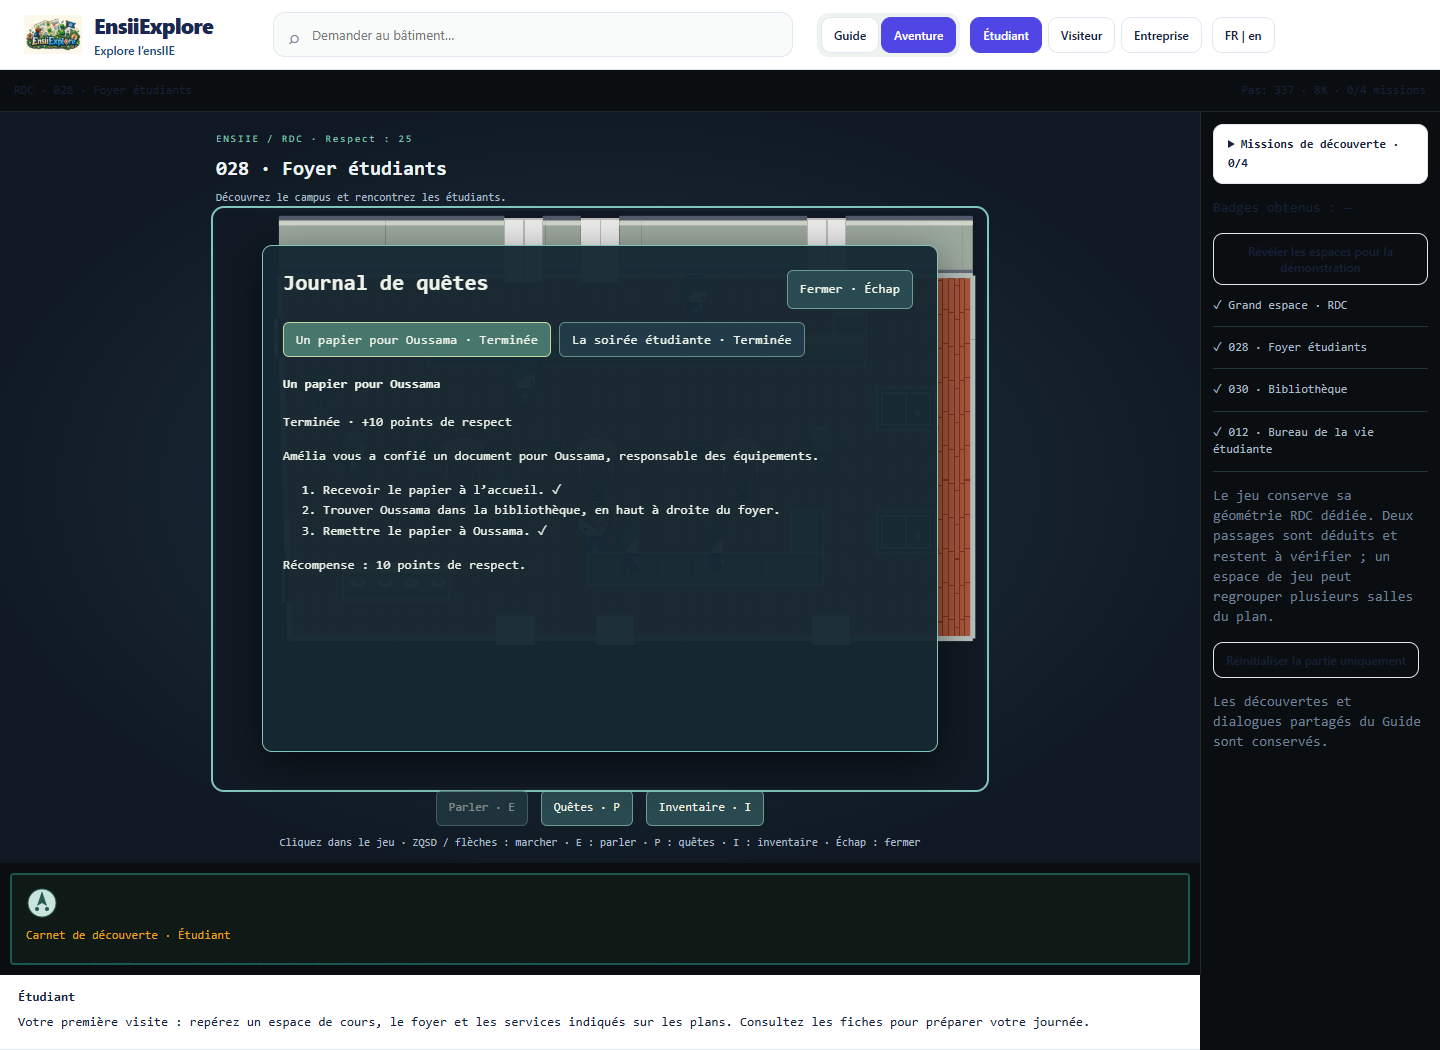
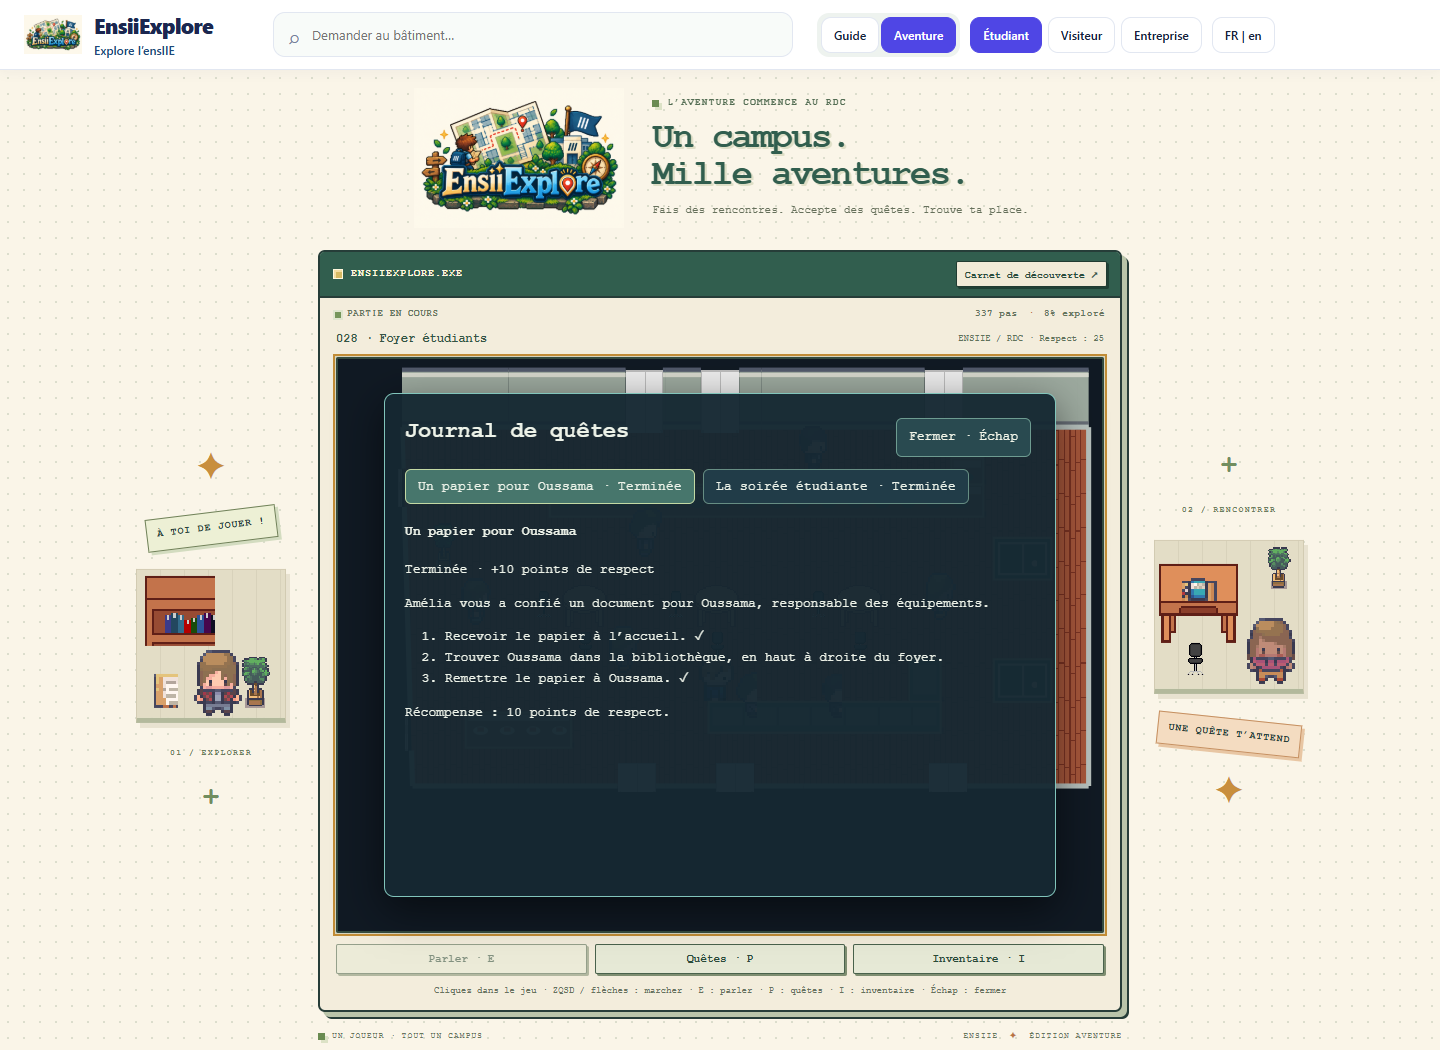
this branch

diff --git a/src/components/AdventureView.jsx b/src/components/AdventureView.jsx
@@ -1,9 +1,11 @@
-import {useState} from 'react';
+import {useRef,useState} from 'react';
+import './AdventureView.css';
 import EntranceGame from '../game/EntranceGame.jsx';
 import MissionPanel from './MissionPanel.jsx';
 import {missionProgress,validGameProgress,freshGameProgress} from '../discoveryMissions.js';
 import {useSaved} from '../preferences.js';
 export default function AdventureView({t,lang,persona='student',onSelect,onGuide,onPosition,discovered=[],onDiscover,readGuides=[],onReadGuide}){
+ const notebook=useRef(null);
  const [saved,setSaved]=useSaved('ensiie-game-progress',null,validGameProgress);
  const [state,setState]=useState(saved||freshGameProgress()),[run,setRun]=useState(0),[reveal,setReveal]=useState(false),[requestedGuide,setRequestedGuide]=useState(null),[backup,setBackup]=useState(null);
  const fr=lang==='fr',intro={student:{fr:'Votre première visite : repérez un espace de cours, le foyer et les services indiqués sur les plans. Consultez les fiches pour préparer votre journée.',en:'Your first visit: find a teaching space, the foyer and services recorded on the plans. Use room records to prepare your day.'},visitor:{fr:'Votre visite découverte : commencez par l’amphithéâtre, découvrez la vie étudiante et utilisez le Guide pour préparer vos trajets.',en:'Your discovery visit: start with the lecture hall, discover student life and use the Guide to prepare your routes.'},company:{fr:'Votre visite entreprise : découvrez les espaces d’enseignement au RDC, puis utilisez les parcours du Guide pour explorer les lieux associés aux entreprises. Les usages restent à confirmer.',en:'Your company visit: discover ground-floor teaching spaces, then use Guide tours to explore places associated with companies. Their uses still need confirmation.'}}[persona]||null,visitedIds=new Set((state.rooms||[]).filter(r=>state.visited.includes(r.id)).flatMap(r=>r.roomIds||[]));
@@ -11,16 +13,33 @@ export default function AdventureView({t,lang,persona='student',onSelect,onGuide
  const completed=missionProgress([...visitedIds],readGuides).filter(m=>m.complete),percent=state.total?Math.round(state.visited.length/state.total*100):0;
  function progress(value){setState(value);setSaved(value);if(value.roomIds?.length)onDiscover?.(value.roomIds);}
  function reset(){setBackup({saved,state});setSaved(null);setState(freshGameProgress());setReveal(false);setRun(n=>n+1);}
- return <div className="adventure entrance-adventure">
-  {intro&&<section className="adventure-persona-intro"><strong>{t[persona]}</strong><p>{intro[lang]}</p></section>}
-  <div className="adv-hud"><span>RDC · {state.roomName}</span><span>{t.steps}: {state.steps} · {percent}% · {completed.length}/4 {fr?'missions':'missions'}</span></div>
-  <EntranceGame key={run} initialProgress={saved} lang={lang} onProgress={progress} onPosition={onPosition}/>
-  <div className="adv-dialog"><svg width="32" height="32" viewBox="0 0 32 32" role="img" aria-label={fr?'Boussole, mascotte virtuelle originale':'Compass, original virtual mascot'}><circle cx="16" cy="16" r="14" fill="#c8e4dd" stroke="#28594b"/><path d="M16 4 21 19 16 16 11 19Z" fill="#28594b"/><circle cx="11" cy="22" r="2" fill="#28594b"/><circle cx="21" cy="22" r="2" fill="#28594b"/></svg><div className="who">{fr?'Carnet de découverte':'Discovery journal'} · {t[persona]}</div><p>{fr?'Parcourez le RDC pour repérer les lieux du plan. Les guides ci-dessous sont des personnages virtuels.':'Talk to Amelia at reception to begin. E: talk ? P: quest journal ? I: inventory. Explore the ground floor to discover places from the plan.'}</p></div>
-  <aside className="adv-log"><MissionPanel discovered={[...visitedIds]} read={readGuides} onRead={onReadGuide} onSelect={onSelect} onRoute={onGuide} lang={lang} requestedGuide={requestedGuide}/>
+ return <main className="adventure retro-adventure" id="main-content" tabIndex={-1}>
+  <div className="retro-shell">
+   <header className="retro-hero">
+    <img className="retro-logo" src="/logo.png" alt="EnsiiExplore"/>
+    <div className="retro-intro"><span className="retro-edition"><i aria-hidden="true"/> {fr?'L’AVENTURE COMMENCE AU RDC':'YOUR ADVENTURE STARTS HERE'}</span><h1>{fr?<>Un campus.<br/>Mille aventures.</>:<>One campus.<br/>Endless adventures.</>}</h1><p>{fr?'Fais des rencontres. Accepte des quêtes. Trouve ta place.':'Meet new people. Take on quests. Find your place.'}</p></div>
+   </header>
+   <div className="retro-playground">
+    <div className="retro-scenery retro-scenery-left" aria-hidden="true"><span className="retro-spark">✦</span><span className="retro-sticker">{fr?'À TOI DE JOUER !':'YOUR TURN!'}</span><div className="retro-vignette"><img className="retro-shelf" src="/game/decor/bookshelf.png" alt=""/><span className="retro-character retro-character-alex"/><img className="retro-plant" src="/game/decor/plant.png" alt=""/><img className="retro-paper" src="/game/decor/paper.png" alt=""/></div><span className="retro-side-caption">01 / {fr?'EXPLORER':'EXPLORE'}</span><span className="retro-pixel-star">+</span></div>
+    <section className="retro-cabinet" aria-label={fr?'Fenêtre de jeu EnsiiExplore':'EnsiiExplore game window'}>
+     <div className="retro-titlebar"><span><i aria-hidden="true"/> ENSIIEXPLORE.EXE</span><button onClick={()=>notebook.current.showModal()} aria-haspopup="dialog">{fr?'Carnet de découverte':'Discovery notebook'} <span aria-hidden="true">↗</span></button></div>
+     <div className="retro-status"><span><i aria-hidden="true"/> {fr?'PARTIE EN COURS':'NOW PLAYING'}</span><span>{state.steps} {fr?'pas':'steps'} <b>·</b> {percent}% {fr?'exploré':'explored'}</span></div>
+     <EntranceGame key={run} initialProgress={saved} lang={lang} onProgress={progress} onPosition={onPosition}/>
+    </section>
+    <div className="retro-scenery retro-scenery-right" aria-hidden="true"><span className="retro-pixel-star">+</span><span className="retro-side-caption">02 / {fr?'RENCONTRER':'CONNECT'}</span><div className="retro-vignette"><img className="retro-desk" src="/game/decor/desk.png" alt=""/><img className="retro-computer" src="/game/decor/computer.png" alt=""/><span className="retro-character retro-character-amelia"/><img className="retro-chair" src="/game/decor/chair.png" alt=""/><img className="retro-small-plant" src="/game/decor/plant.png" alt=""/></div><span className="retro-sticker retro-sticker-orange">{fr?'UNE QUÊTE T’ATTEND':'A QUEST AWAITS'}</span><span className="retro-spark">✦</span></div>
+   </div>
+   <footer className="retro-footer"><span><i aria-hidden="true"/> {fr?'UN JOUEUR · TOUT UN CAMPUS':'ONE PLAYER · A WHOLE CAMPUS'}</span><span>ENSIIE <b>✦</b> {fr?'ÉDITION AVENTURE':'ADVENTURE EDITION'}</span></footer>
+  </div>
+  <dialog ref={notebook} className="retro-notebook" aria-labelledby="retro-notebook-title" onKeyDownCapture={e=>e.stopPropagation()} onKeyUpCapture={e=>e.stopPropagation()}>
+   <header><div><small>ENSIIEXPLORE / {fr?'PROGRESSION':'PROGRESS'}</small><h2 id="retro-notebook-title">{fr?'Carnet de découverte':'Discovery notebook'}</h2></div><button onClick={()=>notebook.current.close()} aria-label={fr?'Fermer le carnet':'Close notebook'}>✕</button></header>
+   {intro&&<section className="retro-persona"><strong>{t[persona]}</strong><p>{intro[lang]}</p></section>}
+   <div className="retro-notebook-stats"><span>{state.visited.length} / {state.total} {fr?'espaces':'spaces'}</span><span>{completed.length} / 4 {fr?'missions de découverte':'discovery missions'}</span></div>
+  <div className="retro-notebook-content"><MissionPanel discovered={[...visitedIds]} read={readGuides} onRead={onReadGuide} onSelect={onSelect} onRoute={onGuide} lang={lang} requestedGuide={requestedGuide}/>
   <p>{fr?'Badges obtenus':'Earned badges'} : {completed.map(m=>m[lang]).join(' · ')||'—'}</p>
   <button className="ghost" onClick={()=>setReveal(!reveal)}>{reveal?(fr?'Masquer la liste complète':'Hide complete list'):(fr?'Révéler les espaces pour la démonstration':'Reveal spaces for the demo')}</button>
   {reveal&&<figure className="adventure-reveal"><img src="/game/maps/rdc-authored-preview.svg" alt={fr?"Vue complète de la géométrie du jeu RDC, y compris les espaces non découverts":"Full ground-floor game geometry, including undiscovered spaces"}/><a href="/game/maps/rdc-authored-preview.svg" target="_blank" rel="noreferrer">{fr?"Ouvrir la carte à pleine taille":"Open full-size map"}</a><figcaption>{fr?"Carte de démonstration ; ne valide pas les découvertes ni les accès réels.":"Demo overview; does not validate discoveries or real access."}</figcaption></figure>}
   {(state.rooms||[]).filter(r=>reveal||state.visited.includes(r.id)).map(r=><div key={r.id} className="entrance-objective">{state.visited.includes(r.id)?'✓':'○'} {r.name}</div>)}
-  <p className="hint">{fr?'Le jeu conserve sa géométrie RDC dédiée. Deux passages sont déduits et restent à vérifier ; un espace de jeu peut regrouper plusieurs salles du plan.':'The game retains its dedicated ground-floor geometry. Two inferred passages need verification; one game space can group several plan rooms.'}</p><button className="ghost" onClick={reset}>{fr?'Réinitialiser la partie uniquement':'Reset game only'}</button><p className="hint">{fr?'Les découvertes et dialogues partagés du Guide sont conservés.':'Shared Guide discoveries and conversations are preserved.'}</p>{backup&&<button className="ghost" onClick={()=>{setSaved(backup.saved);setState(backup.state);setBackup(null);setRun(n=>n+1);}}>{fr?'Annuler la remise à zéro':'Undo game reset'}</button>}</aside>
- </div>;
+  <p className="hint">{fr?'Le jeu conserve sa géométrie RDC dédiée. Deux passages sont déduits et restent à vérifier ; un espace de jeu peut regrouper plusieurs salles du plan.':'The game retains its dedicated ground-floor geometry. Two inferred passages need verification; one game space can group several plan rooms.'}</p><button className="ghost" onClick={reset}>{fr?'Réinitialiser la partie uniquement':'Reset game only'}</button><p className="hint">{fr?'Les découvertes et dialogues partagés du Guide sont conservés.':'Shared Guide discoveries and conversations are preserved.'}</p>{backup&&<button className="ghost" onClick={()=>{setSaved(backup.saved);setState(backup.state);setBackup(null);setRun(n=>n+1);}}>{fr?'Annuler la remise à zéro':'Undo game reset'}</button>}</div>
+  </dialog>
+ </main>;
 }

diff --git a/src/components/AdventureView.css b/src/components/AdventureView.css
@@ -1,0 +1,39 @@
+/* Page chrome only: the game canvas and its dialogue rendering are unchanged. */
+.adventure.retro-adventure{--retro-ink:#263d38;--retro-green:#315e4e;--retro-paper:#faf5e8;--retro-orange:#ce653c;--screen-width:clamp(320px,calc((100dvh - 450px)*1.333333),768px);display:block;min-height:0;height:100%;overflow:auto;background-color:var(--retro-paper);background-image:radial-gradient(#82947a40 .8px,transparent .8px);background-size:16px 16px;color:var(--retro-ink);font-family:'Courier New',ui-monospace,monospace;isolation:isolate;scrollbar-color:#85997f #f2ecdd;}
+.retro-shell{max-width:1380px;min-height:100%;margin:0 auto;padding:18px 32px 16px;display:flex;flex-direction:column;align-items:center;justify-content:center;}
+.retro-hero{display:flex;align-items:center;justify-content:center;gap:26px;margin:0 auto 22px;position:relative;z-index:1;}
+.retro-logo{width:215px;height:140px;object-fit:contain;mix-blend-mode:multiply;}
+.retro-edition{display:flex;align-items:center;gap:8px;font-size:9px;font-weight:700;letter-spacing:1.5px;color:#526c52;}
+.retro-edition i,.retro-footer i{display:inline-block;background:#698b51;width:7px;height:7px;box-shadow:3px 3px 0 #dce2c6;}
+.retro-intro h1{font-family:'Courier New',ui-monospace,monospace;font-size:36px;line-height:1.03;letter-spacing:-1.8px;font-weight:900;margin:9px 0;color:var(--retro-green);text-shadow:2px 2px 0 #dfdfc7;}
+.retro-intro p{font-size:11px;color:#66705b;margin:8px 0 0;line-height:1.6;}
+.retro-playground{position:relative;width:100%;display:flex;justify-content:center;}
+.retro-cabinet{width:min(100%,calc(var(--screen-width) + 36px));min-width:0;border:2px solid var(--retro-ink);border-radius:7px;background:#f3eddc;box-shadow:5px 5px 0 #b9c4a9,7px 7px 0 var(--retro-ink);position:relative;z-index:1;}
+.retro-titlebar{display:flex;align-items:center;justify-content:space-between;gap:10px;padding:9px 13px;background:var(--retro-green);color:#fff9df;border-bottom:2px solid var(--retro-ink);border-radius:4px 4px 0 0;font-size:10px;letter-spacing:1px;font-weight:700;}
+.retro-titlebar>span{display:flex;gap:8px;align-items:center;white-space:nowrap;}.retro-titlebar>span i{width:10px;height:10px;border:1px solid #fff8dd;background:#d6b963;box-shadow:inset 2px 2px 0 #f4dda2;}
+.retro-titlebar button{background:#f1ebd8;border:1px solid #203b31;box-shadow:2px 2px 0 #1f4035;color:#294c3c;border-radius:2px;padding:5px 8px;font:700 10px 'Courier New',monospace;cursor:pointer;}.retro-titlebar button:hover{background:#fffbe9;}.retro-titlebar button:focus-visible{outline:3px solid #efc060;outline-offset:3px;}
+.retro-status{display:flex;justify-content:space-between;gap:10px;padding:10px 15px 0;font-size:9px;font-weight:700;color:#66745d;letter-spacing:.7px;}.retro-status>span:first-child{display:flex;align-items:center;gap:6px;}.retro-status i{width:6px;height:6px;background:#75965b;box-shadow:0 0 0 2px #dfe6ce;}.retro-status b{color:#c7774a;margin:0 4px;}
+.retro-adventure .entrance-stage{display:flex;align-items:center;overflow:visible;background:none;padding:10px 16px 12px;min-height:0;}
+.retro-adventure .entrance-heading{width:100%;max-width:none;display:flex;align-items:center;justify-content:space-between;gap:10px;margin-bottom:9px;flex-direction:row-reverse;}
+.retro-adventure .entrance-kicker{font-size:9px;color:#61725a;letter-spacing:0;white-space:nowrap;}
+.retro-adventure .entrance-heading h2{font:700 12px/1.4 'Courier New',monospace;color:#345545;margin:0;}
+.retro-adventure .entrance-heading>p{display:none;}
+.retro-adventure .entrance-canvas-wrap{flex:none;width:100%;min-height:0;aspect-ratio:4/3;display:block;background:#101923;border:2px solid #344b40;border-radius:2px;box-shadow:0 0 0 3px #d6d5bf;}
+.retro-adventure .entrance-canvas-wrap canvas{display:block;width:100%;height:100%;max-height:none;object-fit:contain;border-radius:0;outline:0;}
+.retro-adventure .entrance-canvas-wrap canvas:focus-visible{outline:2px solid #c18c36;outline-offset:3px;}
+.retro-adventure .campus-toolbar{margin-top:11px;gap:8px;width:100%;}
+.retro-adventure .campus-toolbar button{flex:1;border:1px solid #49624c;border-radius:2px;background:#e6e9d6;box-shadow:2px 2px 0 #7e8e71;color:#294a39;padding:8px 10px;margin:0;font:700 11px 'Courier New',monospace;}
+.retro-adventure .campus-toolbar button:hover{background:#d5dfbd;transform:translateY(-1px);}.retro-adventure .campus-toolbar button:active{transform:translate(1px,1px);box-shadow:none;}
+.retro-adventure .entrance-controls{font:9px/1.6 'Courier New',monospace;text-align:center;color:#68725e;margin:10px 0 0;}
+.retro-footer{display:flex;justify-content:space-between;gap:15px;width:min(100%,calc(var(--screen-width) + 36px));margin:18px 0 0;font-size:8px;letter-spacing:1px;color:#6a765e;}.retro-footer span:first-child{display:flex;align-items:center;gap:7px;}.retro-footer b{color:#b97343;margin:0 6px;}
+.retro-scenery{position:absolute;top:50%;width:150px;pointer-events:none;text-align:center;display:flex;align-items:center;flex-direction:column;gap:24px;transform:translateY(-50%);}
+.retro-scenery-left{right:calc(50% + (var(--screen-width) / 2) + 50px);}.retro-scenery-right{left:calc(50% + (var(--screen-width) / 2) + 50px);}
+.retro-spark{font-size:38px;color:#c88e3d;line-height:1;}.retro-pixel-star{font-size:30px;color:#718d5e;font-weight:900;line-height:1;}
+.retro-sticker{font-size:10px;letter-spacing:.8px;font-weight:700;padding:8px 10px;border:1px solid #6f8058;background:#edf0d5;box-shadow:3px 3px 0 #d3dcc0;transform:rotate(-7deg);white-space:nowrap;}.retro-sticker-orange{background:#f4dcc1;border-color:#c58f60;box-shadow:3px 3px 0 #e8c6a3;transform:rotate(6deg);}
+.retro-vignette{width:150px;height:154px;position:relative;background:repeating-linear-gradient(90deg,#e3ddc6 0 23px,#d8d2bb 23px 24px);border:1px solid #d2cbb2;border-bottom:5px solid #b3b99c;box-shadow:4px 5px 0 #e8e2d0;}
+.retro-vignette img{position:absolute;image-rendering:pixelated;object-fit:contain;}.retro-shelf{width:70px;height:70px;left:8px;top:6px;}.retro-plant{width:40px;height:54px;right:3px;bottom:9px;}.retro-paper{width:24px;height:34px;left:17px;bottom:10px;}.retro-character{position:absolute;display:block;width:48px;height:96px;background-size:192px 96px;background-position:-144px 0;image-rendering:pixelated;}.retro-character-alex{background-image:url('/game/decor/alex.png');left:57px;bottom:2px;}.retro-character-amelia{background-image:url('/game/decor/amelia.png');right:8px;bottom:5px;}.retro-desk{width:79px;height:79px;left:4px;top:23px;}.retro-computer{width:35px;height:35px;left:27px;top:25px;}.retro-chair{width:32px;height:32px;left:24px;bottom:14px;}.retro-small-plant{width:32px;height:45px;right:3px;top:4px;}.retro-side-caption{font-size:8px;letter-spacing:1.5px;color:#6e7d60;font-weight:700;}
+.retro-notebook{width:min(700px,calc(100vw - 32px));max-height:84dvh;border:2px solid #2b4b3c;border-radius:5px;padding:0;background:#faf5e8;color:#294538;box-shadow:6px 6px 0 #93a382;font:13px/1.65 'Courier New',monospace;}.retro-notebook::backdrop{background:#263b3690;backdrop-filter:blur(4px);}.retro-notebook>header{position:sticky;top:0;z-index:2;display:flex;align-items:center;justify-content:space-between;gap:20px;background:#315e4e;color:#fff9e5;padding:14px 20px;}.retro-notebook h2{font:700 19px 'Courier New',monospace;margin:3px 0;}.retro-notebook small{font-size:9px;letter-spacing:1px;}.retro-notebook button{cursor:pointer;font:inherit;}.retro-notebook>header>button{border:1px solid #fff4d5;background:transparent;color:#fff4d5;padding:4px 10px;}.retro-persona,.retro-notebook-stats,.retro-notebook-content{padding:15px 20px;}.retro-persona p{margin:5px 0;}.retro-notebook-stats{display:flex;gap:20px;justify-content:space-between;border-block:1px solid #d7d8bb;background:#e8ecd8;font-weight:700;}.retro-notebook .ghost{border:1px solid #6b805f;background:#e9edda;color:#294538;border-radius:3px;padding:8px 12px;}.retro-notebook .hint{color:#667259;}.retro-notebook .entrance-objective{border-color:#d5dbc1;color:#34553c;}.retro-notebook .shared-missions{background:#fffcf0;color:#294538;border-color:#c9d0b5;}.retro-adventure .retro-notebook .shared-missions[open]{max-height:none;overflow:visible;}.retro-notebook .adventure-reveal{margin-inline:0;}.retro-notebook a{color:#2d664e;}.retro-notebook :focus-visible{outline:3px solid #bd7b37;outline-offset:3px;}
+@media(min-width:1600px){.retro-scenery{gap:30px;}.retro-scenery-left{right:calc(50% + (var(--screen-width) / 2) + 90px);}.retro-scenery-right{left:calc(50% + (var(--screen-width) / 2) + 90px);}}
+@media(max-width:1100px){.retro-scenery{display:none;}}
+@media(max-width:650px){.retro-shell{padding:16px 14px 24px;justify-content:flex-start;}.retro-hero{gap:12px;margin-bottom:18px;}.retro-logo{width:125px;height:100px;}.retro-intro h1{font-size:26px;letter-spacing:-1.2px;}.retro-edition{font-size:7px;letter-spacing:.5px;}.retro-intro p{font-size:9px;max-width:180px;}.retro-titlebar{padding:8px;font-size:8px;letter-spacing:0;}.retro-titlebar button{font-size:9px;max-width:50%;}.retro-status{font-size:8px;padding:10px 10px 0;letter-spacing:0;}.retro-adventure .entrance-stage{padding:10px;}.retro-adventure .entrance-heading{align-items:flex-start;gap:5px;flex-direction:column;}.retro-adventure .entrance-heading h2{font-size:11px;}.retro-adventure .entrance-kicker{font-size:8px;}.retro-adventure .campus-toolbar{gap:6px;}.retro-adventure .campus-toolbar button{font-size:10px;padding:9px 4px;}.retro-adventure .entrance-controls{font-size:8px;}.retro-footer{font-size:7px;letter-spacing:0;gap:8px;flex-wrap:wrap;}.retro-notebook-stats{flex-wrap:wrap;gap:8px;}}
+@media(prefers-reduced-motion:reduce){.retro-adventure button{transition:none;}}

diff --git a/docs/game-rdc.md b/docs/game-rdc.md
@@ -89,3 +89,12 @@ Tests complémentaires :
 - Les captures de contrôle incluent `docs/campus-previews/bureau.png`, `distributeurs.png`, `foyer.png`, `conversation.png` et `quete-terminee.png`.
 
 La progression et la mémoire des rencontres restent conservées en mémoire pendant la session Aventure ; quitter cette vue ou recharger recommence une partie.
+
+
+## Présentation rétro de la page Aventure
+
+La page Aventure utilise désormais un cadre de jeu centré, un fond crème à points, une barre de fenêtre rétro, le logo EnsiiExplore et deux petites scènes décorées avec les sprites Tiled existants (personnages, plante, bibliothèque, bureau, ordinateur, chaise et papier). Le style est isolé dans `src/components/AdventureView.css` pour préserver les autres vues et le rendu interne du jeu. La taille de l’écran s’adapte à la hauteur disponible et conserve le ratio 4:3.
+
+La barre latérale et le panneau inférieur ont été remplacés par le bouton « Carnet de découverte ». Cette fenêtre facultative conserve les missions de découverte, les badges, la liste des lieux, l’aperçu de démonstration et la remise à zéro avec annulation. Les quêtes et l’inventaire du jeu restent accessibles avec P et I.
+
+`npm run test:adventure:layout` vérifie le centrage, le ratio, l’absence de débordement horizontal et des anciens panneaux sur quatre formats (1920×1080, 1440×900, 768×1024 et 390×844), ainsi que l’ouverture/fermeture du carnet et les commandes P/I. Le test utilise le serveur local et Microsoft Edge, comme le test de parcours du jeu. Les captures `docs/campus-previews/retro-*.png` montrent les quatre formats.
